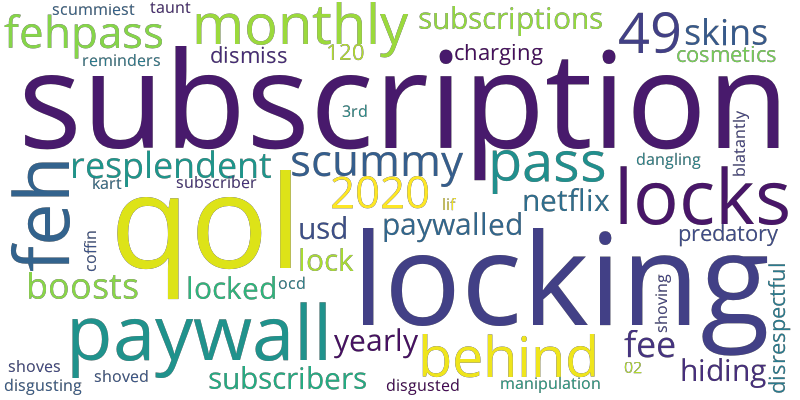
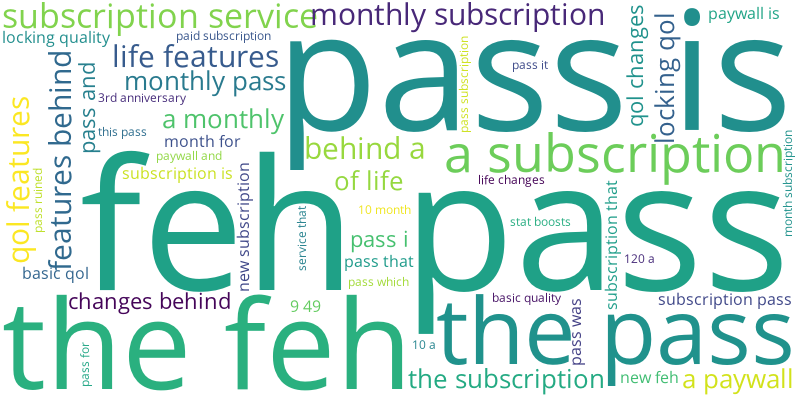
Update to Flask

diff --git a/templates/wordcloud.html b/templates/wordcloud.html
@@ -1,0 +1,4 @@
+<h2>Before</h2>
+<img src="static/before_fehp_word_cloud.png">
+<h2>After</h2>
+<img src="static/after_fehp_word_cloud.png">

diff --git a/templates/image.html b/templates/image.html
@@ -1,0 +1,1 @@
+<img src="{{ image }}">

diff --git a/data_manager.py b/data_manager.py
@@ -4,66 +4,8 @@ import pandas as pd
 import matplotlib.pyplot as plt
 import matplotlib.dates as mdates
 from datetime import datetime as dt
-
-
-def plot_score_distribution(reviews_distribution, nb_reviews):
-	"""
-	Plot a bar chart showing reviews' score ditribution.
-		Parameters
-		----------
-		reviews_distribution : List(List(float))
-			A 2-dimensionnal array representing score distribution before and after FEH pass.
-			Shape should be (2, 5) 2--> before/after // 5--> score range
-		nb_reviews : List(int)
-			An array stocking the number of reviews published before and after FEH pass
-	"""
-	# data to plot
-	data = np.array(reviews_distribution)
-	data = data.T
-
-	# plot grid
-	plt.rc("grid", ls="-", color="#ced6e0")
-	plt.grid(axis="y", zorder=0)
-
-	# plot data
-	index = np.arange(2)
-	bar_width = 0.1
-	colors = ["#78e08f", "#9fc552", "#bfa525", "#d87e1d", "#e55039"]
-	labels = ["5 stars", "4 stars", "3 stars", "2 stars", "1 star"]
-	for i, color, label in zip(range(0, 5), colors, labels):
-		plt.bar(index + i * bar_width, data[i], bar_width, color=color, label=label, zorder=3)
-
-	# add labels and legends
-	plt.ylabel("% of reviews")
-	plt.ylim(0, 100)
-	plt.title("% of reviews by score before and after FEH Pass announcement")
-	plt.xticks(index + 2 * bar_width, ("Before FEH Pass", "After FEH Pass"))
-	plt.text(0, 80, "%s reviews" % '{:,}'.format(nb_reviews[0]).replace(',', ' '))
-	plt.text(1, 60, "%s reviews" % '{:,}'.format(nb_reviews[1]).replace(',', ' '))
-	plt.legend()
-	plt.show()
-
-
-def plot_fehpass_mention(mentions, reviews, reviews_1star):
-	"""
-	Display in terminal some stats about FEH pass mentions.
-		Parameters
-		----------
-		mentions : Dataframe
-			Datafram with records of reviews in english where the FEH pass in mentionned
-		reviews : Dataframe
-			Datafram with records of reviewspublished after the FEH pass
-		reviews_1star: Dataframe
-			Datafram with records of reviews in english where the FEH pass in mentionned rated as 1 star
-	"""
-	print(f"Pourcentage of reviews in english where FEH pass is mentionned: {len(reviews) / len(mentions) * 100}")
-	print(f"({len(reviews)}/{len(mentions)} reviews)")
-	print(
-		f"Pourcentage of reviews scored as 1 star where FEH pass is mentionned: "
-		f"{len(reviews_1star) / len(mentions) * 100}"
-	)
-	print(f"({len(reviews_1star)}/{len(mentions)} reviews)")
-
+import matplotlib
+matplotlib.use('agg')
 
 class DataManager:
 	"""
@@ -276,12 +218,48 @@ class DataManager:
 		plt.title("Cumulative mean and rolling average on FEH score from playstore")
 
 		# display
-		plt.show()
+		return plt.gcf()
+	
+	def plot_score_distribution(self, reviews_distribution, nb_reviews):
+		"""
+		Plot a bar chart showing reviews' score ditribution.
+			Parameters
+			----------
+			reviews_distribution : List(List(float))
+				A 2-dimensionnal array representing score distribution before and after FEH pass.
+				Shape should be (2, 5) 2--> before/after // 5--> score range
+			nb_reviews : List(int)
+				An array stocking the number of reviews published before and after FEH pass
+		"""
+		# data to plot
+		data = np.array(reviews_distribution)
+		data = data.T
 
-	def plot_overall_stats(self):
+		# plot grid
+		plt.rc("grid", ls="-", color="#ced6e0")
+		plt.grid(axis="y", zorder=0)
+
+		# plot data
+		index = np.arange(2)
+		bar_width = 0.1
+		colors = ["#78e08f", "#9fc552", "#bfa525", "#d87e1d", "#e55039"]
+		labels = ["5 stars", "4 stars", "3 stars", "2 stars", "1 star"]
+		for i, color, label in zip(range(0, 5), colors, labels):
+			plt.bar(index + i * bar_width, data[i], bar_width, color=color, label=label, zorder=3)
+
+		# add labels and legends
+		plt.ylabel("% of reviews")
+		plt.ylim(0, 100)
+		plt.title("% of reviews by score before and after FEH Pass announcement")
+		plt.xticks(index + 2 * bar_width, ("Before FEH Pass", "After FEH Pass"))
+		plt.text(0, 80, "%s reviews" % '{:,}'.format(nb_reviews[0]).replace(',', ' '))
+		plt.text(1, 60, "%s reviews" % '{:,}'.format(nb_reviews[1]).replace(',', ' '))
+		plt.legend()
+		return plt.gcf()
+		
+	def plot_refresh(self):
 		"""
-			Method to print basic statistics in the terminal
+			Refresh the current plot
 		"""
-		mean, number_of_reviews = self.compute_mean()
-		print(f"Number of reviews: {number_of_reviews}")
-		print(f"Mean: {mean}")
+		plt.clf()
+		plt.cla()

diff --git a/app.py b/app.py
@@ -1,0 +1,139 @@
+from data_manager import DataManager
+from scraper import Scraper
+from datetime import date as dt
+from cloud import Cloud
+from flask import Flask, request, Response, render_template
+from matplotlib.backends.backend_agg import FigureCanvasAgg as FigureCanvas
+import io
+import json
+
+app = Flask(__name__)
+
+def load_config():
+	with open("./ressources/config.json") as f:
+		config = json.load(f)
+	return config
+
+
+def save_last_import():
+	with open("./ressources/copy.txt", "w") as file:
+		file.write(dt.today().strftime('%d/%m/%Y'))
+
+@app.route('/getReviews')
+def get_reviews():
+	"""
+		Method to fecth reviews from the Playstore
+	"""
+	config = load_config()
+	dm = DataManager(config)
+	s = Scraper(config)
+	reviews = s.get_reviews(config["feh_release_date"])
+	dm.insert_reviews(reviews)
+	dm.export()
+	return "OK", 200
+
+@app.route('/compute/scoreDistribution', methods=['GET'])
+def compute_score_distribution():
+	"""
+		Method to compute scoren distribution from reviews data
+	"""
+	config = load_config()
+	dm = DataManager(config)
+	try:
+		# load data review in export file (path in config)
+		dm.load()
+
+		# computing stats
+		score_distribution, review_distribution = dm.compute_score_distribution()
+
+		# Convert plot to PNG image
+		figure_plot_SD = dm.plot_score_distribution(score_distribution, review_distribution)
+		image_plot_SD = io.BytesIO()
+		FigureCanvas(figure_plot_SD).print_png(image_plot_SD)
+		dm.plot_refresh()
+		
+		return Response(image_plot_SD.getvalue(), mimetype='image/png')
+
+	except FileNotFoundError:
+		return f"File '{config['export_path']}' not found. Launch scrapping process to create it", 500
+
+@app.route('/compute/means', methods=['GET'])
+def compute_means():
+	"""
+		Method to compute statistics from reviews data
+	"""
+	config = load_config()
+	dm = DataManager(config)
+	try:
+		# load data review in export file (path in config)
+		dm.load()
+
+		# computing stats
+		means = {
+			"Cumulative mean": dm.compute_cumulative_mean(),
+			"Rolling average (1month)": dm.compute_rolling_mean()
+		}
+
+		# Convert plot to PNG image
+		figure_plot_res = dm.plot_res(means)
+		image_plot_res = io.BytesIO()
+		FigureCanvas(figure_plot_res).print_png(image_plot_res)
+		dm.plot_refresh()
+	
+		return Response(image_plot_res.getvalue(), mimetype='image/png')
+	except FileNotFoundError:
+		return f"File '{config['export_path']}' not found. Launch scrapping process to create it", 500
+	
+@app.route('/compute/stats', methods=['GET'])
+def compute_overall_stats():
+	"""
+		Method to compute statistics from reviews data
+	"""
+	config = load_config()
+	dm = DataManager(config)
+	try:
+		# load data review in export file (path in config)
+		dm.load()
+
+		# computing stats
+		means, nb_reviews = dm.compute_mean()
+		review_with_mention, review_in_lang, review_with_mention_1star = dm.compute_fehpass_mention()
+		stats = {
+					"means": means,
+					"nb_reviews": nb_reviews,
+					"review_in_lang": len(review_in_lang),
+					"review_with_mention": len(review_with_mention),
+					"review_with_mention_1star": len(review_with_mention_1star)
+				}
+		
+		# return stats
+		return stats, 200
+
+	except FileNotFoundError:
+		return f"File '{config['export_path']}' not found. Launch scrapping process to create it", 500
+
+@app.route('/wordcloud', methods=['GET'])
+def make_wordcloud():
+	"""
+		Method to generate a word cloud. Images are save in "ressources" directory.
+	"""
+	alpha = float(request.args.get('alpha'))
+	config = load_config()
+	dm = DataManager(config)
+	try:
+		# load data in export file (path in config)
+		dm.load()
+
+		reviews_after_fp = dm.get_reviews_as_dict(language="en", period="after")
+		reviews_before_fp = dm.get_reviews_as_dict(language="en", period="before")
+		cloud = Cloud(alpha=alpha)
+		cloud.load_reviews(reviews_before_fp, reviews_after_fp)
+		cloud.cloud()
+		return render_template('wordcloud.html')
+
+	except FileNotFoundError:
+		print(f"File '{config['export_path']}' not found. Please check provided path is a valid path.")
+
+
+if __name__ == "__main__":
+	app.run()

diff --git a/cloud.py b/cloud.py
@@ -99,7 +99,7 @@ class Cloud:
 
 	def cloud(self):
 		image = make_image.simple_image(self.word_cloud(0))
-		image.save(fp=f"./ressources/before_fehp_word_cloud.png", format="PNG")
+		image.save(fp=f"./static/before_fehp_word_cloud.png", format="PNG")
 
 		image = make_image.simple_image(self.word_cloud(1))
-		image.save(fp=f"./ressources/after_fehp_word_cloud.png", format="PNG")
+		image.save(fp=f"./static/after_fehp_word_cloud.png", format="PNG")

diff --git a/scraper_utils.py b/scraper_utils.py
@@ -52,8 +52,8 @@ def reviews(
 			)
 
 		dom = _post(url, payload, {"content-type": "application/x-www-form-urlencoded"})
-
-		match = json.loads(Regex.REVIEWS.findall(dom)[0])
+		reg = Regex.REVIEWS.findall(dom)
+		match = json.loads(reg[0])
 		try:
 			pagination_token = json.loads(match[0][2])[-1][-1]
 		except TypeError:

diff --git a/README.md b/README.md
@@ -10,10 +10,25 @@ The goal of this tool is to visualize how much this pass has impacting the PlayS
 # How to run it
 1. Clone the project wherever you want
 2. Install the requirements listed in `requirements.txt` with `pip`
-3. Run the following commands with Python 3.5+
-   - `main.py get_reviews` to fetch reviews from the Playstore (**need to be done first**)
-   - `main.py compute_data` to computing statistics and plot graphs
-   - `main.py word_cloud` to create word_cloud based on reviews' content
+3. Run the following commands with Python 3.10+
+   - `python -m flask run -h localhost -p 8080` to launch Flask server
+
+# Flask API
+
+- **GET** `/getReviews`
+  - Fetch reviews from Fire Emblem Heroes app and save them in resources/out.csv ***(need to be done first)***
+
+- **GET** `/compute/scoreDistribution`
+  - Return an image of a bar chart representing the score distribution before and after FEH Pass
+
+- **GET** `/compute/means`
+  - Return an image of a graph of the cumulative means of score reviews
+
+- **GET** `/compute/stats`
+  - Return a string JSON with differents stats
+
+- **GET** `/wordcloud`
+  - Return a HTML page with 2 wordclouds from reviews data
 
 # Powered by:
 
